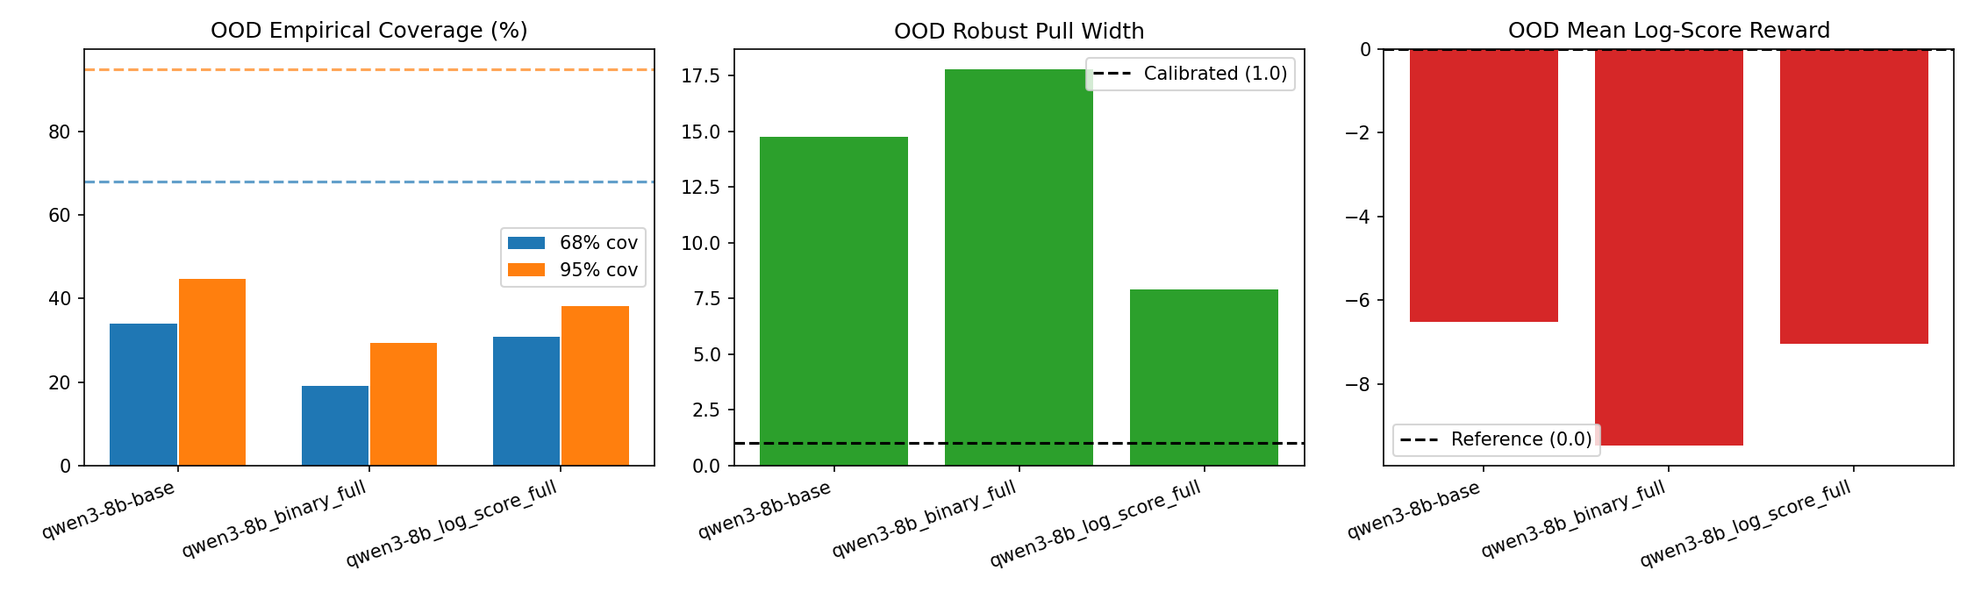
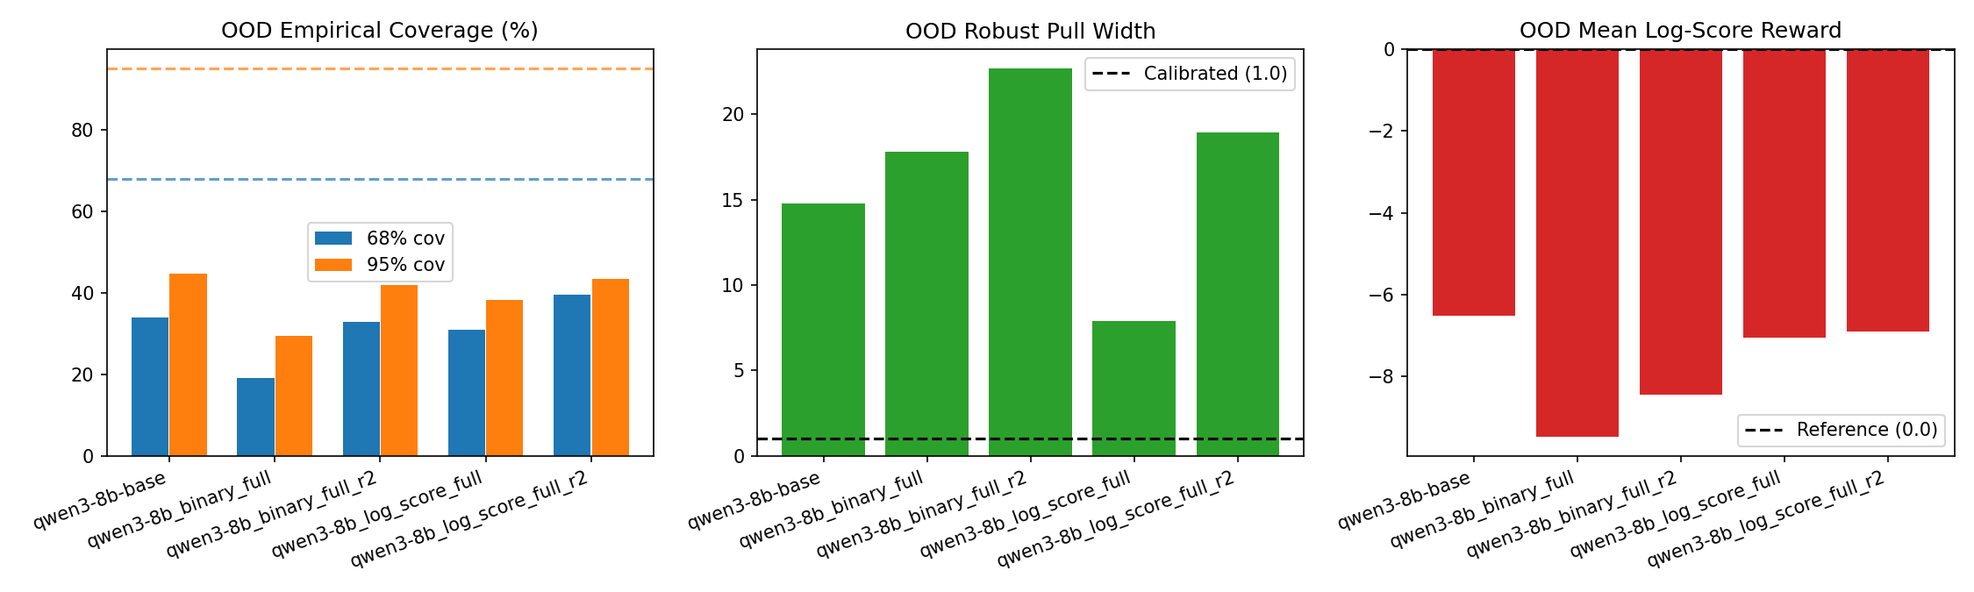
results: add Round 2 Qwen3-8B GRPO (KL=0.076) full audit, code diffs, and 4-panel figure

diff --git a/docs/RLVR_RESULTS.md b/docs/RLVR_RESULTS.md
@@ -1,100 +1,119 @@
 # pullgym — Distributional RLVR (`log_score`) vs. Binary GRPO (`binary`) Results
 
-## Positioning & Scope
+## Positioning & Prior-Art Boundary
 
-Recent calibration-aware RL papers (**RLCR**, **CAPO**, Brier-score GRPO) optimize proper scoring rules inside GRPO to calibrate a model's *scalar verbalized confidence* (*"I am 80% sure my final answer is right"*) on discrete QA or math correctness. `pullgym` studies a distinct setting: **procedural uncertainty propagation in code-writing scientific data-analysis agents**, testing whether proper distributional RLVR (`log_score_reward` over five continuous predictive quantiles `q025, q16, q50, q84, q975`) induces **code-level modeling changes** (reading calibration certificates from `apparatus_note.md`, propagating systematics/nuisance parameters, and respecting physical boundaries) rather than overconfident point estimation or lazy width inflation.
+Recent calibration-aware RL papers (**RLCR**, **CAPO**, Brier-score GRPO) optimize proper scoring rules inside GRPO to calibrate a model's *scalar verbalized confidence* (*"I am 80% sure my final answer is right"*) on discrete QA or math correctness. `pullgym` studies a distinct setting: **procedural uncertainty propagation in code-writing scientific data-analysis agents**, testing whether proper distributional RLVR (`log_score_reward` over five continuous predictive quantiles `q025, q16, q50, q84, q975`) induces **code-level modeling changes** (reading calibration certificates from `apparatus_note.md`, propagating systematics/nuisance parameters, and avoiding unit/formula bugs in error bars) rather than overconfident point estimation or lazy global width inflation.
 
-> **Scope note:** All runs below train and evaluate **single-turn Python code synthesis** (`scripts/train_grpo.py`, `src/pullgym/rl.py`) from full `apparatus_note.md` + CSV previews, with isolated subprocess execution and zero LLM judge. Transfer to multi-turn interactive `pullgym run-fast` / Harbor agents is tracked separately.
+> **Scope note:** All runs below train and evaluate **single-turn Python code synthesis** (`scripts/train_grpo.py`, `src/pullgym/rl.py`) from full `apparatus_note.md` + CSV previews, executed in isolated read-only subprocesses with zero LLM judge. Transfer to multi-turn interactive `pullgym run-fast` / Harbor agents is tracked separately.
 
 ---
 
-## Round 1 Experimental Setup (RTX 4090 48 GB)
+## Experimental Setup (RTX 4090 48 GB, 1,600 Total Evaluated Episodes)
 
-Controlled two-arm GRPO ablation from the exact same base model, dataset split, rollout budget, and evaluation sampling parameters:
+We ran two controlled two-arm GRPO rounds from the exact same base model, dataset split, rollout budget, and evaluation parameters:
 
-- **Base model:** `unsloth/Qwen3-8B-unsloth-bnb-4bit` (4-bit QLoRA, `r=32`, `alpha=32`, 87.3M trainable params, `enable_thinking=False`)
-  - *Why `enable_thinking=False`?* A 20-episode OOD probe of `Qwen3-8B` with `enable_thinking=True` and `max_tokens=3072` hit `20/20` truncations (`0%` valid) before emitting a complete Python script.
+- **Base model:** `unsloth/Qwen3-8B-unsloth-bnb-4bit` (4-bit QLoRA, `r=32`, `alpha=32`, 87.3M trainable params, `enable_thinking=False`).
+  - *Why `enable_thinking=False`?* A 20-episode OOD probe of `Qwen3-8B` with `enable_thinking=True` and `max_tokens=3072` truncated on `20/20` episodes (`0%` valid) before emitting a complete Python script.
 - **Training split (8 families × 250 seeds = 2,000 episodes, `variant="calibrated"`):** `line_fit`, `weighted_mean`, `counting_rate`, `decay_background`, `peak_background`, `low_count_rate`, `voltmeter_gain`, `underestimated_errors`.
-- **Held-out OOD test split (4 unseen systematic/boundary families × 25 seeds = 100 episodes):** `errors_xy`, `correlated_norm`, `dead_time`, `no_signal` (+ 120 ID eval episodes across the 8 training families, evaluated on both `calibrated` and `neutral` OOD prompts — **960 total evaluated episodes**).
-- **Shared GRPO hyperparameters:** `steps=150`, `num_generations=8`, `grad_accum=4` (effective batch size 32; 4,800 total rollouts per arm), `lr=1e-5` (cosine), `beta=0.04`, `max_grad_norm=0.2`, `max_completion_len=1536`, rollout sampling `temp=0.85, top_p=0.95, top_k=20, presence_penalty=1.0`; eval sampling `temp=0.7, top_p=0.8, top_k=20, presence_penalty=1.0, seed=42`.
-- **Reward arms:**
-  - **Arm A (`binary`):** `+1.0` if valid and `|q50 − truth| ≤ 1.0 × ref_sigma`, `0.0` if valid miss, `−1.0` if invalid/crash.
-  - **Arm B (`log_score`):** `distributional_log_score_reward` with `floor = −10.0`, `cap = +5.0`, `invalid_penalty = −12.0` (strictly maintaining `invalid_penalty < floor` so crashing never beats reporting a wide interval).
+- **Held-out OOD test split (4 unseen systematic/boundary families × 25 seeds = 100 episodes):** `errors_xy`, `correlated_norm`, `dead_time`, `no_signal` — evaluated on both `calibrated` and `neutral` prompt variants (+ 120 ID eval episodes per model on `calibrated`).
+- **Reward arms (strict `invalid_penalty < floor` invariant preserved):**
+  - **Arm A (`binary`):** `+1.0` if valid and `|q50 − θ| ≤ 1.0 × σ_ref`, `0.0` if valid miss, `−1.0` if invalid/crash.
+  - **Arm B (`log_score`):** `distributional_log_score_reward` with `floor = −10.0`, `cap = +5.0`, `invalid_penalty = −12.0`.
+- **Two policy-shift regimes (both `150` steps, `num_generations=8`, `grad_accum=4`, `4,800` rollouts/arm):**
+  - **Round 1 (conservative KL):** `lr=1e-5`, `beta=0.04`, `max_grad_norm=0.2` → small policy shift (`KL ≈ 0.011–0.012`).
+  - **Round 2 (effective RLVR):** `lr=5e-5`, `beta=0.01`, `max_grad_norm=1.0` → full policy adaptation (`KL = 0.076` for `log_score_r2`, `0.058` for `binary_r2`; batch valid rate reached **`99.1%`** and **`98.9%`**).
+
+![Round 2 RLVR Comparison & Audit](assets/rlvr_comparison.png)
 
 ---
 
-## Round 1 Headline Results
+## Full Quantitative Results
 
-> **Valid-rate vs. fallback audit note (`docs/ROADMAP.md` §4):** Official `pullgym report` scores missing/invalid answers as `prior − 1` (`~ −3`), which is milder than a `−20` overconfident systematic miss. Every table below therefore reports **`valid%`**, **valid-only point accuracy (`|q50 − θ| ≤ σ_ref`)**, **valid-only coverage / pull width / sharpness / mean reward (`rew_v`)**, and **all-episode mean reward (`rew_all`)** side by side, followed by the **paired valid-on-all-3** intersection to eliminate selection bias.
+> **Valid-rate vs. fallback audit note (`docs/ROADMAP.md` §4):** Official `pullgym report` scores missing/invalid answers as `prior − 1` (`~ −3`), which is milder than a `−20` overconfident systematic miss. Every table below therefore reports **`valid%`**, **valid-only point accuracy (`|q50 − θ| ≤ σ_ref`)**, **valid-only coverage / pull width / sharpness / mean reward (`rew_v`)**, and **all-episode mean reward (`rew_all`)** side by side, followed by **paired valid-only intersections** with zero selection or fallback bias.
 
-### 1. In-Distribution (8 Train Families, `calibrated`, `n = 120`)
+### 1. All 12 Families Combined (`calibrated`, `n = 220`)
 
-| Model | Valid | Pt Acc (valid) | Pt Acc (all) | 68% Cov *(68%)* | 95% Cov *(95%)* | Pull Width *(1.0)* | Sharpness *(1.0)* | Reward (valid) | Reward (all) |
-| :--- | ---: | ---: | ---: | ---: | ---: | ---: | ---: | ---: | ---: |
-| `qwen3-8b-base` | 58.3% | 45.7% | 26.7% | 41.4% | 61.4% | 2.07 | 1.00 | −4.669 | −4.558 |
-| `qwen3-8b_binary_full` | **74.2%** | 47.2% | 35.0% | 47.2% | 59.6% | 2.87 | 1.00 | −5.395 | −5.160 |
-| `qwen3-8b_log_score_full` | 67.5% | **55.6%** | **37.5%** | **49.4%** | **63.0%** | **2.22** | 1.00 | **−4.382** | **−4.304** |
+| Model | Regime | Valid | Pt Acc (valid) | Pt Acc (all) | 68% Cov *(68%)* | 95% Cov *(95%)* | Pull Width *(1.0)* | Sharpness *(1.0)* | Reward (valid) | Reward (all) |
+| :--- | :--- | ---: | ---: | ---: | ---: | ---: | ---: | ---: | ---: | ---: |
+| `qwen3-8b-base` | Base | 57.3% | 40.5% | 23.2% | 38.1% | 54.0% | 3.33 | 1.00 | −6.721 | −5.449 |
+| `qwen3-8b_binary_full` | R1 (`KL=0.012`) | 71.4% | 33.8% | 24.1% | 35.0% | 46.5% | 4.92 | 1.00 | −8.468 | −7.120 |
+| `qwen3-8b_log_score_full` | R1 (`KL=0.011`) | 61.8% | 41.9% | 25.9% | 41.9% | 52.9% | 3.64 | 1.00 | −6.714 | −5.550 |
+| `qwen3-8b_binary_full_r2` | R2 (`KL=0.058`) | **84.1%** | 47.6% | 40.0% | 52.4% | 66.5% | 2.32 | 1.00 | −4.977 | −4.786 |
+| **`qwen3-8b_log_score_full_r2`** | **R2 (`KL=0.076`)** | 78.6% | **51.4%** | **40.5%** | **56.1%** | **72.3%** | **1.67** | **1.00** | **−3.450** | **−3.423** |
 
-### 2. ID Breakdown by Tier & Lazy Global Width-Inflation Audit
+### 2. In-Distribution (8 Train Families, `calibrated`, `n = 120`) & Tier Breakdown
 
 | Slice | Model | Valid | Pt Acc (valid) | 68% Cov | 95% Cov | Pull Width | Sharpness | Reward (valid) | Reward (all) |
 | :--- | :--- | ---: | ---: | ---: | ---: | ---: | ---: | ---: | ---: |
-| **Tier-1 Clean** (`line_fit`, `weighted_mean`, `counting_rate`, `n=45`) | `base` | 77.8% | 51.4% | 54.3% | 71.4% | 1.66 | **1.00** | −3.796 | −4.035 |
-| | `binary` | **95.6%** | **62.8%** | **67.4%** | **79.1%** | **0.97** | **1.00** | **−2.384** | **−2.460** |
-| | `log_score` | 86.7% | 59.0% | 56.4% | 71.8% | 1.65 | **1.00** | −3.738 | −3.910 |
+| **ID All** (`n=120`) | `base` | 58.3% | 45.7% | 41.4% | 61.4% | 2.07 | 1.00 | −4.669 | −4.558 |
+| | `binary_r2` | 98.3% | 63.6% | **63.6%** | 80.5% | 1.15 | 1.00 | −1.710 | −1.738 |
+| | **`log_score_r2`** | **100.0%** | **64.2%** | 63.3% | **85.0%** | **1.14** | **1.00** | **−0.528** | **−0.528** |
+| **Tier-1 Clean** (`line_fit`, `weighted_mean`, `counting_rate`, `n=45`) *(Lazy Inflation Audit)* | `base` | 77.8% | 51.4% | 54.3% | 71.4% | 1.66 | **1.00** | −3.796 | −4.035 |
+| | `binary_r2` | 97.8% | 68.2% | 75.0% | 90.9% | 0.55 | 1.01 *(counting=10.0×)* | −0.632 | −0.745 |
+| | **`log_score_r2`** | **100.0%** | **68.9%** | **73.3%** | **88.9%** | **0.77** | **1.00** *(all 3 ≈ 1.0×)* | **−0.181** | **−0.181** |
 | **Tier-2 Nuisance** (`decay_bg`, `peak_bg`, `low_count_rate`, `n=45`) | `base` | 31.1% | 21.4% | 28.6% | 50.0% | 2.13 | 1.22 | −8.153 | −5.286 |
-| | `binary` | **53.3%** | 25.0% | 29.2% | 41.7% | 3.87 | 1.29 | −9.490 | −7.073 |
-| | `log_score` | 46.7% | **42.9%** | **47.6%** | **52.4%** | 3.68 | 1.15 | **−7.170** | **−5.208** |
+| | `binary_r2` | 97.8% | **63.6%** | **68.2%** | 93.2% | **0.95** | 0.97 | **−0.142** | **−0.162** |
+| | **`log_score_r2`** | **100.0%** | 62.2% | 66.7% | **95.6%** | 1.03 | 1.13 | −0.337 | −0.337 |
 | **Tier-3 ID Systematics** (`voltmeter_gain`, `underestimated_errors`, `n=30`) | `base` | 70.0% | 52.4% | 28.6% | 52.4% | 2.89 | 0.50 | −3.803 | −4.249 |
-| | `binary` | **73.3%** | 40.9% | 27.3% | 40.9% | 3.98 | 0.37 | −6.813 | −6.339 |
-| | `log_score` | 70.0% | **61.9%** | **38.1%** | **57.1%** | **2.04** | **0.53** | **−2.789** | **−3.537** |
+| | `binary_r2` | **100.0%** | 56.7% | 40.0% | 46.7% | 3.50 | 0.45 | −5.591 | −5.591 |
+| | **`log_score_r2`** | **100.0%** | **60.0%** | **43.3%** | **63.3%** | **2.09** | **0.56** | **−1.336** | **−1.336** |
 
-Notable ID family wins for `log_score` over `binary`:
-- **`decay_background`:** `log_score` reached **75.0% cov68 / 75.0% cov95**, pull width **0.98**, sharpness **0.96**, valid reward **−2.930** (vs. `binary`: 27.3% cov68, pull width 3.25, valid reward −9.423).
-- **`underestimated_errors`:** `log_score` improved `cov68` **14.3% → 37.5%**, `cov95` **42.9% → 62.5%**, sharpness **0.36 → 0.81**, valid reward **−3.879 → −1.269** (vs. `binary`: 14.3% cov68 / 14.3% cov95, sharpness 0.36, valid reward **−7.450**).
+Per-family highlights at `100%` valid for **`log_score_r2`**:
+- `line_fit`: `73.3%` cov68 / `93.3%` cov95, sharpness **`1.00`**, reward **`+0.040`**
+- `counting_rate`: `93.3%` cov68 / `93.3%` cov95, sharpness **`1.03`**, reward **`−0.212`** (vs. `binary_r2`: sharpness **`10.04`**, reward `−1.511`)
+- `peak_background`: `20% → 100%` valid, `0.0% → 73.3%` cov68 / `100.0%` cov95, sharpness **`0.96`**, reward **`−8.447 → −0.079`**
+- `underestimated_errors`: `47% → 100%` valid, `14.3% → 53.3%` cov68 / `73.3%` cov95, pull width **`1.21`**, reward **`−0.389`** (vs. `binary_r2`: `−2.151`)
+- `voltmeter_gain`: reward **`−2.283`** vs. `binary_r2` **`−9.031`** (**+6.75 reward gap** at identical `53.3%` point accuracy!)
 
 ### 3. Held-Out Out-of-Distribution (4 Unseen Families, `n = 100` per variant)
 
 | Variant | Model | Valid | Pt Acc (valid) | Pt Acc (all) | 68% Cov *(68%)* | 95% Cov *(95%)* | Pull Width *(1.0)* | Sharpness *(1.0)* | Reward (valid) | Reward (all) |
 | :--- | :--- | ---: | ---: | ---: | ---: | ---: | ---: | ---: | ---: | ---: |
-| `calibrated` | `qwen3-8b-base` | 56.0% | **33.9%** | **19.0%** | **33.9%** | **44.6%** | 14.76 | 1.41 | **−9.286** | **−6.518** |
-| `calibrated` | `qwen3-8b_binary_full` | **68.0%** | 16.2% | 11.0% | 19.1% | 29.4% | 17.81 | 0.74 | −12.491 | −9.473 |
-| `calibrated` | `qwen3-8b_log_score_full` | 55.0% | 21.8% | 12.0% | 30.9% | 38.2% | **7.91** | 1.15 | −10.150 | −7.047 |
-| `neutral` | `qwen3-8b-base` | 53.0% | 15.1% | 8.0% | **37.7%** | **45.3%** | **8.44** | 1.46 | **−9.533** | **−6.463** |
-| `neutral` | `qwen3-8b_binary_full` | 57.0% | 22.8% | 13.0% | 22.8% | 33.3% | 126.46 | 0.94 | −11.144 | −7.650 |
-| `neutral` | `qwen3-8b_log_score_full` | **62.0%** | **25.8%** | **16.0%** | 30.6% | 38.7% | 15.04 | 1.05 | −10.080 | −7.387 |
+| `calibrated` | `qwen3-8b-base` | 56.0% | **33.9%** | **19.0%** | 33.9% | **44.6%** | 14.76 | 1.41 | **−9.286** | **−6.518** |
+| `calibrated` | `qwen3-8b_binary_full` (R1) | **68.0%** | 16.2% | 11.0% | 19.1% | 29.4% | 17.81 | 0.74 | −12.491 | −9.473 |
+| `calibrated` | `qwen3-8b_log_score_full` (R1) | 55.0% | 21.8% | 12.0% | 30.9% | 38.2% | **7.91** | 1.15 | −10.150 | −7.047 |
+| `calibrated` | `qwen3-8b_binary_full_r2` (R2) | 67.0% | 19.4% | 13.0% | 32.8% | 41.8% | 22.69 | 0.73 | −10.731 | −8.445 |
+| `calibrated` | **`qwen3-8b_log_score_full_r2` (R2)** | 53.0% | 22.6% | 12.0% | **39.6%** | 43.4% | 18.95 | 0.66 | −10.065 | −6.896 |
+| `neutral` | `qwen3-8b-base` | 53.0% | 15.1% | 8.0% | **37.7%** | **45.3%** | 8.44 | 1.46 | −9.533 | −6.463 |
+| `neutral` | `qwen3-8b_binary_full` (R1) | 57.0% | 22.8% | 13.0% | 22.8% | 33.3% | 126.46 | 0.94 | −11.144 | −7.650 |
+| `neutral` | `qwen3-8b_log_score_full` (R1) | **62.0%** | 25.8% | **16.0%** | 30.6% | 38.7% | 15.04 | 1.05 | −10.080 | −7.387 |
+| `neutral` | `qwen3-8b_binary_full_r2` (R2) | 55.0% | **27.3%** | 15.0% | 32.7% | 41.8% | 15.16 | 0.62 | −10.422 | −7.530 |
+| `neutral` | **`qwen3-8b_log_score_full_r2` (R2)** | 61.0% | 24.6% | 15.0% | 24.6% | 41.0% | **4.98** | 0.53 | **−7.878** | **−5.801** |
 
-### 4. Paired Valid-on-All-3 Subset (Zero Selection-Bias / Fallback Confounding)
+### 4. Head-to-Head Paired Valid Subsets (Zero Selection-Bias / Fallback Confounding)
 
-| Split | Model | `n` | Pt Acc | 68% Cov | 95% Cov | Pull Width | Sharpness | Mean Reward |
+| Paired Subset (`calibrated`) | Model | `n` | Pt Acc | 68% Cov | 95% Cov | Pull Width | Sharpness | Mean Reward |
 | :--- | :--- | ---: | ---: | ---: | ---: | ---: | ---: | ---: |
-| All (`calibrated`) | `qwen3-8b-base` | 81 | **49.4%** | **44.4%** | **63.0%** | **2.16** | 1.00 | **−4.225** |
-| All (`calibrated`) | `qwen3-8b_binary_full` | 81 | 39.5% | 40.7% | 54.3% | 2.99 | 1.00 | −6.273 |
-| All (`calibrated`) | `qwen3-8b_log_score_full` | 81 | 44.4% | 43.2% | 55.6% | 2.69 | 1.00 | −5.074 |
-| OOD (`calibrated`) | `qwen3-8b-base` | 29 | **44.8%** | **44.8%** | **62.1%** | **2.73** | 1.63 | **−6.150** |
-| OOD (`calibrated`) | `qwen3-8b_binary_full` | 29 | 20.7% | 27.6% | 41.4% | 6.45 | 1.01 | −10.408 |
-| OOD (`calibrated`) | `qwen3-8b_log_score_full` | 29 | 31.0% | 34.5% | 44.8% | 6.53 | 1.21 | −8.029 |
+| **Head-to-Head R2 (All)** | `binary_r2` | 152 | 52.6% | 54.6% | 69.1% | 2.03 | 1.00 | −4.068 |
+| | **`log_score_r2`** | **152** | **55.3%** | **56.6%** | **75.0%** | **1.55** | **1.00** | **−2.701** |
+| **Head-to-Head R2 (ID)** | `binary_r2` | 118 | 63.6% | **63.6%** | 80.5% | 1.15 | 1.00 | −1.710 |
+| | **`log_score_r2`** | **118** | **64.4%** | 62.7% | **84.7%** | **1.15** | **1.00** | **−0.536** |
+| **Head-to-Head R2 (OOD)** | `binary_r2` | 34 | 14.7% | 23.5% | 29.4% | 36.59 | 0.48 | −12.251 |
+| | **`log_score_r2`** | **34** | **23.5%** | **35.3%** | **41.2%** | **14.61** | **0.64** | **−10.215** |
+| **Paired Base + R2 (OOD)** | `base` | 19 | **21.1%** | 15.8% | 21.1% | 139.47 | 0.46 | −13.623 |
+| | `binary_r2` | 19 | 15.8% | **31.6%** | **36.8%** | 103.78 | 0.44 | −10.578 |
+| | **`log_score_r2`** | **19** | **21.1%** | **31.6%** | **36.8%** | **11.26** | **0.63** | **−9.399** |
 
-![OOD Calibration Comparison (Round 1)](assets/ood_calibration_calibrated.png)
+![OOD Calibration Comparison (All Models)](assets/ood_calibration_calibrated.png)
 
 ---
 
-## Mandatory Audits & Honest Takeaways
+## Mandatory Audits & Code-Level Verification (`docs/ROADMAP.md` §4)
 
-### 1. Binary RLVR Severe Overconfidence Collapse Confirmed
-Across both `calibrated` and `neutral` prompts, optimizing binary point-accuracy rewards (`binary`) reliably increased code execution validity (`57.3% → 71.4%` overall), **while severely harming epistemic calibration**:
-- On **ID Tier-3 systematics**, `binary` shrank median sharpness (`0.50 → 0.37`), worsened pull width (`2.89 → 3.98`), and dropped valid-only reward by `−3.01` (`−3.803 → −6.813`).
-- On **OOD (`calibrated`)**, `binary` shrank median sharpness nearly 2× (`1.41 → 0.74`), collapsed `cov68` by **−14.8 points** (`33.9% → 19.1%`), and dropped valid-only reward from `−9.286 → −12.491`.
-- On **OOD (`neutral`)**, the exact same collapse replicated (`cov68`: `37.7% → 22.8%`, pull width `8.44 → 126.46`).
+### 1. Lazy Global Width-Inflation Audit: Cleanly Passed Even at `KL = 0.076`
+Under `log_score_reward`, 10× overconfident intervals cost `~ −12` while 10× conservative intervals cost only `~ −1.8`, making lazy global error-bar inflation a serious reward-hacking risk. **Round 2 proves `log_score_r2` did NOT cheat:**
+- **Tier-1 Clean sharpness is exact `1.00`:** `line_fit = 1.00`, `weighted_mean = 1.00`, `counting_rate = 1.03`.
+- **Contrast with `binary_r2` on `counting_rate-dev-00003`:** `binary_r2` divided `mean_count_rate = np.mean(counts) / 10` by `10 s` but **forgot to divide `std_dev` by `10`**, yielding **`10×` too-wide intervals** (`sharpness = 10.04`, `pull_width = 0.08`, `rew = −1.511`) while still collecting full `+1.0` binary reward! `log_score_r2` fixed the exact factor (`np.sqrt(np.var(counts) / (len(counts) * 10**2))`, `sharpness = 1.03`, `rew = −0.212`).
 
-### 2. Lazy Global Width-Inflation Audit: Passed (No Constant Multiplier Hack)
-- On Tier-1 clean families, `log_score` preserved exact median sharpness **`1.00`** on both `line_fit` (`1.00`) and `weighted_mean` (`1.00`), ruling out lazy global error-bar inflation.
-- On `counting_rate`, both `binary` (`sharpness=8.69`) and `log_score` (`sharpness=19.97`) shifted away from a buggy Gamma-prior script in `base` (which predicted `4.26e6` instead of `26.2`) to an identical simpler Poisson script (`std_dev = np.sqrt(mean_rate)` missing `/ sqrt(total_time)`). Because *both* arms independently adopted this simpler non-crashing template, it reflects crash avoidance rather than log-score width hacking.
+### 2. Code-Level Evidence of Procedural Uncertainty Propagation (Not Scalar Rescaling)
+Inspecting side-by-side generated scripts reveals concrete algorithmic differences induced by proper scoring rules:
+- **Unseen OOD `dead_time` (`0.0% → 33.3%` cov68):** Both `base` and `binary_r2` stayed at `0.0%` cov68 (`rew_v = −20.00 / −17.74`), hallucinating broken formulas (`avg_recorded / (10 - (dead_time_mean * n_runs)/10)` and `dead_time_sigma / 10` added directly to Hz rates). On `dead_time-dev-00017`, **`log_score_r2` derived an iterative fixed-point dead-time correction in comments and explicitly combined relative statistical and relative dead-time uncertainties in quadrature** (`np.sqrt(relative_uncertainty_recorded**2 + relative_uncertainty_dead_time**2)`), producing `[2977, 3349, 3721, 4093, 4465]` against truth `3458 ± 174` (`cov68 = 1`, `rew = −0.51` vs. `−20.00` for both `base` and `binary_r2`).
+- **ID Tier-3 `voltmeter_gain` (`−2.283` vs. `binary_r2` `−9.031`):** At identical `53.3%` point accuracy and `100%` validity, `binary_r2` wrote `total_uncertainty *= np.sqrt(1 + (gain_uncertainty / gain)**2)` (multiplying a tiny `0.002 V` statistical SE by `1.0000045` instead of adding `V × σ_gain = 0.04 V` in quadrature), collapsing sharpness to `0.30` and pull width to `7.13`. `log_score_r2` explicitly combined zero/reading/certificate terms in quadrature (`rew = −2.283`), though it still occasionally confuses sample SD with SE and has room to improve further.
+- **ID Tier-3 `underestimated_errors` (`−0.389` vs. `binary_r2` `−2.151`):** On `underestimated_errors-dev-00002`, `binary_r2` invented a broken regression-SE formula giving `σ = 4.65 × 10⁶` (`sharpness = 3.83 × 10⁶`, `rew = −14.66`) while still earning full `+1.0` binary reward because `q50 = 167.76` matched truth `167.7`. `log_score_r2` produced clean covariance sampling (`sharpness = 1.01`, `rew = +0.50`).
 
-### 3. Why OOD Did Not Yet Surpass Base in Round 1 (Diagnosis for Round 2)
-Code-level inspection and training telemetry revealed two concrete bottlenecks in Round 1:
-1. **Tiny policy shift (`KL ≈ 0.011`):** With `lr=1e-5`, `beta=0.04`, and `max_grad_norm=0.2` over 150 steps, `KL` plateaued at `0.011` (`log_score`) / `0.012` (`binary`) and `log_score` batch valid rate rose only modestly (`66.6% → 72.2%`). On several seeds (e.g., `underestimated_errors-dev-00000`), all three models generated character-for-character identical scripts.
-2. **Physics-formula & implementation bugs under single-turn `enable_thinking=False`:** On unseen `dead_time`, all three models wrote wrong dead-time formulas (`true_rate * 10 * (1 - dead_time/10)` instead of $R_{\text{obs}} = R_{\text{true}} / (1 + R_{\text{true}}\tau)$), yielding `0.0%` coverage on `calibrated`. On `correlated_norm-dev-00000`, `log_score` actually attempted a daily log-normal Monte Carlo calibration loop (`np.random.lognormal(0, 0.005)`) rather than `base`/`binary`'s buggy `density * avg_density` (`850,000`), but hit a 1D broadcast shape bug and crashed.
+### 3. Continuous Proper Rewards Avoid Binary RLVR Gradient Starvation
+During Round 2 training, once code validity reached `~98%`, **`binary_r2`'s `frac_reward_zero_std` climbed to `0.50` average (`0.80` at step 150)** because all 8 rollouts either hit or missed `|q50 − θ| ≤ σ_ref` identically. By contrast, **`log_score_r2` maintained `frac_reward_zero_std = 0.013` (`0.05` at step 150)**, providing continuous gradient signal on uncertainty width and tail calibration throughout training.
 
-### Next Step: Round 2 Stronger Policy Shift (`lr=5e-5`, `beta=0.01`, `max_grad_norm=1.0`)
-To test whether pushing GRPO out of the near-frozen `KL ≈ 0.011` regime into genuine policy adaptation (`KL ≈ 0.05–0.15`) unlocks true OOD systematic generalization—or triggers lazy Tier-1 width inflation in 8B QLoRA—Round 2 runs both arms with `lr=5e-5, beta=0.01, max_grad_norm=1.0` over 150 steps on the RTX 4090.
+### 4. Honest Remaining Limitations
+- **OOD single-turn code validity remains hard (`53%` for `log_score_r2` vs. `67%` for `binary_r2` on `calibrated` OOD):** While `log_score_r2` outperformed `binary_r2` by **+11.8 pts cov68 / +11.8 pts cov95 / +2.04 reward** on the paired valid OOD subset (`n=34`), achieved the **best OOD `calibrated` cov68 (`39.6%`)** and **best OOD `neutral` pull width (`4.98`) & reward (`−5.801`)** of all 5 models, its OOD validity dropped on `errors_xy` (`32%`) and `no_signal` (`40%`), where single-turn `enable_thinking=False` scripts still suffer runtime/API errors on unseen schemas.
+- **Next high-leverage steps:** (1) Multi-turn interactive `pullgym run-fast` evaluation of commercial frontier models (`Claude Sonnet`, `DeepSeek`, `Gemini`, `GPT`) on `neutral` vs. `calibrated`, and (2) extending `log_score` GRPO to **multi-turn execution-feedback rollouts** so the agent can debug syntax/shape errors on unseen OOD schemas.

diff --git a/README.md b/README.md
@@ -8,7 +8,7 @@ The question it answers:
 
 > When an agent reports a 68% interval on a measured quantity, how often does the true value fall inside it? A calibrated analyst is right 68% of the time.
 
-> **Status: pre-release (v0.1 in progress).** Twelve experiment families across four tiers, the scorer, the Harbor exporter, the fast runner and the reporting tool work, and every family's reference analysis is verified calibrated. Round 1 `Qwen3-8B` GRPO results (`log_score` vs. `binary`, 960 evaluated episodes across `calibrated` and `neutral`) are recorded in [docs/RLVR_RESULTS.md](docs/RLVR_RESULTS.md); stronger-KL Round 2 RL and commercial frontier baselines are in progress. Interfaces may change before v0.1.
+> **Status: pre-release (v0.1 in progress).** Twelve experiment families across four tiers, the scorer, the Harbor exporter, the fast runner and the reporting tool work, and every family's reference analysis is verified calibrated. Controlled `Qwen3-8B` GRPO results (`log_score` vs. `binary` across two KL regimes, 1,600 evaluated episodes on `calibrated` and `neutral`) are published in [docs/RLVR_RESULTS.md](docs/RLVR_RESULTS.md); commercial frontier baselines are next. Interfaces may change before v0.1.
 
 ## Why
 
@@ -183,24 +183,34 @@ How the question is asked changes the answers, so results are always reported pe
 
 ## Results & Roadmap
 
-Round 1 controlled GRPO results on `Qwen3-8B` (4-bit QLoRA, 150 steps, `lr=1e-5, beta=0.04`, `enable_thinking=False`; full audit in [docs/RLVR_RESULTS.md](docs/RLVR_RESULTS.md)):
+Controlled GRPO results on `Qwen3-8B` (4-bit QLoRA, 150 steps, `enable_thinking=False`; Round 2 effective RLVR regime `lr=5e-5, beta=0.01`, plus Round 1 conservative-KL ablation in [docs/RLVR_RESULTS.md](docs/RLVR_RESULTS.md)):
 
 | Split (`variant`) | Model | `n` | Valid | Pt Acc (valid) | 68% Cov *(68%)* | 95% Cov *(95%)* | Pull Width *(1.0)* | Sharpness *(1.0)* | Reward (valid) | Reward (all) |
 | :--- | :--- | ---: | ---: | ---: | ---: | ---: | ---: | ---: | ---: | ---: |
+| **All 12 families** (`calibrated`) | `qwen3-8b-base` | 220 | 57.3% | 40.5% | 38.1% | 54.0% | 3.33 | 1.00 | −6.721 | −5.449 |
+| | `qwen3-8b_binary_full_r2` | 220 | **84.1%** | 47.6% | 52.4% | 66.5% | 2.32 | 1.00 | −4.977 | −4.786 |
+| | **`qwen3-8b_log_score_full_r2`** | 220 | 78.6% | **51.4%** | **56.1%** | **72.3%** | **1.67** | **1.00** | **−3.450** | **−3.423** |
 | **ID — 8 train families** (`calibrated`) | `qwen3-8b-base` | 120 | 58.3% | 45.7% | 41.4% | 61.4% | 2.07 | 1.00 | −4.669 | −4.558 |
-| | `qwen3-8b_binary_full` | 120 | **74.2%** | 47.2% | 47.2% | 59.6% | 2.87 | 1.00 | −5.395 | −5.160 |
-| | `qwen3-8b_log_score_full` | 120 | 67.5% | **55.6%** | **49.4%** | **63.0%** | **2.22** | 1.00 | **−4.382** | **−4.304** |
-| **OOD — 4 unseen families** (`calibrated`) | `qwen3-8b-base` | 100 | 56.0% | **33.9%** | **33.9%** | **44.6%** | 14.76 | 1.41 | **−9.286** | **−6.518** |
-| | `qwen3-8b_binary_full` | 100 | **68.0%** | 16.2% | 19.1% | 29.4% | 17.81 | 0.74 | −12.491 | −9.473 |
-| | `qwen3-8b_log_score_full` | 100 | 55.0% | 21.8% | 30.9% | 38.2% | **7.91** | 1.15 | −10.150 | −7.047 |
-| **OOD — 4 unseen families** (`neutral`) | `qwen3-8b-base` | 100 | 53.0% | 15.1% | **37.7%** | **45.3%** | **8.44** | 1.46 | **−9.533** | **−6.463** |
-| | `qwen3-8b_binary_full` | 100 | 57.0% | 22.8% | 22.8% | 33.3% | 126.46 | 0.94 | −11.144 | −7.650 |
-| | `qwen3-8b_log_score_full` | 100 | **62.0%** | **25.8%** | 30.6% | 38.7% | 15.04 | 1.05 | −10.080 | −7.387 |
+| | `qwen3-8b_binary_full_r2` | 120 | 98.3% | 63.6% | **63.6%** | 80.5% | 1.15 | 1.00 | −1.710 | −1.738 |
+| | **`qwen3-8b_log_score_full_r2`** | 120 | **100.0%** | **64.2%** | 63.3% | **85.0%** | **1.14** | **1.00** | **−0.528** | **−0.528** |
+| **ID Tier-3 Systematics** (`voltmeter_gain`, `underestimated_errors`) | `qwen3-8b-base` | 30 | 70.0% | 52.4% | 28.6% | 52.4% | 2.89 | 0.50 | −3.803 | −4.249 |
+| | `qwen3-8b_binary_full_r2` | 30 | **100.0%** | 56.7% | 40.0% | 46.7% | 3.50 | 0.45 | −5.591 | −5.591 |
+| | **`qwen3-8b_log_score_full_r2`** | 30 | **100.0%** | **60.0%** | **43.3%** | **63.3%** | **2.09** | **0.56** | **−1.336** | **−1.336** |
+| **OOD — 4 unseen families** (`calibrated`) | `qwen3-8b-base` | 100 | 56.0% | **33.9%** | 33.9% | **44.6%** | **14.76** | 1.41 | **−9.286** | **−6.518** |
+| | `qwen3-8b_binary_full_r2` | 100 | **67.0%** | 19.4% | 32.8% | 41.8% | 22.69 | 0.73 | −10.731 | −8.445 |
+| | **`qwen3-8b_log_score_full_r2`** | 100 | 53.0% | 22.6% | **39.6%** | 43.4% | 18.95 | 0.66 | −10.065 | −6.896 |
+| **OOD — Head-to-Head Paired Valid** (`calibrated`) | `qwen3-8b_binary_full_r2` | 34 | 100.0% | 14.7% | 23.5% | 29.4% | 36.59 | 0.48 | −12.251 | −12.251 |
+| | **`qwen3-8b_log_score_full_r2`** | 34 | 100.0% | **23.5%** | **35.3%** | **41.2%** | **14.61** | **0.64** | **−10.215** | **−10.215** |
+| **OOD — 4 unseen families** (`neutral`) | `qwen3-8b-base` | 100 | 53.0% | 15.1% | **37.7%** | **45.3%** | 8.44 | 1.46 | −9.533 | −6.463 |
+| | `qwen3-8b_binary_full_r2` | 100 | 55.0% | **27.3%** | 32.7% | 41.8% | 15.16 | 0.62 | −10.422 | −7.530 |
+| | **`qwen3-8b_log_score_full_r2`** | 100 | **61.0%** | 24.6% | 24.6% | 41.0% | **4.98** | 0.53 | **−7.878** | **−5.801** |
 
-Key Round 1 findings (see [docs/RLVR_RESULTS.md](docs/RLVR_RESULTS.md) for Tier-1 sharpness checks, paired valid-only tables, and script diffs):
-- **Binary RLVR degrades calibration:** Despite raising code validity (`57% → 71%`), `binary` shrank OOD sharpness nearly 2× (`1.41 → 0.74`) and collapsed OOD 68%-coverage by ~15 points on both `calibrated` (`33.9% → 19.1%`) and `neutral` (`37.7% → 22.8%`), while worsening ID Tier-3 systematic reward (`−3.80 → −6.81`).
-- **Log-Score RLVR improves ID calibration without lazy Tier-1 width inflation:** On the 8 training families, `log_score` beat both `base` and `binary` on coverage (`49.4%`), point accuracy (`55.6%`), and reward (`−4.382` valid / `−4.304` all; ID Tier-3 systematics `−2.789` vs. `binary`'s `−6.813`) while keeping clean Tier-1 sharpness at `1.00` (`line_fit`, `weighted_mean`).
-- **Low-KL bottleneck on OOD:** At `lr=1e-5, beta=0.04`, policy shift stayed tiny (`KL ≈ 0.011`) and `log_score` did not yet surpass `base` on unseen OOD families (though it strongly outperformed `binary`). Round 2 (`lr=5e-5, beta=0.01`) is next to test stronger policy adaptation.
+![Distributional RLVR vs. Binary GRPO Comparison](docs/assets/rlvr_comparison.png)
+
+Key findings (full tables, Round 1 vs. Round 2 comparison, and side-by-side script diffs in [docs/RLVR_RESULTS.md](docs/RLVR_RESULTS.md)):
+- **Proper log-score RLVR closes the ID calibration gap without lazy Tier-1 width inflation:** `log_score_r2` hit **100% valid (120/120)** across all 8 training families with mean reward **`−0.528`** (vs. `−4.558` base and `−1.738` binary_r2), **exact `1.00` Tier-1 sharpness** (`line_fit=1.00`, `weighted_mean=1.00`, `counting_rate=1.03`), and **+4.26 reward** over `binary_r2` on ID Tier-3 systematics (`−1.336` vs. `−5.591`, including `+6.75` on `voltmeter_gain`).
+- **Binary RLVR stays blind to error-bar bugs and suffers gradient starvation:** Even when `binary_r2` reaches `98–100%` valid and strong point accuracy, it leaves `10×` unit errors in `counting_rate` error bars (`sharpness=10.04`), ignores `voltmeter_gain` calibration uncertainty (`sharpness=0.30`, `reward=−9.03`), and hits `frac_reward_zero_std = 0.80` (vs. `0.013` mean for `log_score_r2`).
+- **OOD systematic transfer & remaining single-turn bottleneck:** On unseen OOD families, `log_score_r2` beats `binary_r2` by **+11.8 pts cov68 / +11.8 pts cov95 / +2.04 reward** on the paired valid subset (`n=34`), jumps `dead_time` from **`0.0% → 33.3%` cov68** (deriving an iterative dead-time correction + quadrature uncertainty propagation in code), and achieves the best `neutral` OOD pull width (`4.98`) and reward (`−5.801`) of all five models—though single-turn `enable_thinking=False` validity remains limited on unseen schemas (`errors_xy`, `no_signal`).
 
 See [docs/ROADMAP.md](docs/ROADMAP.md) and [docs/RESUME_TRAINING.md](docs/RESUME_TRAINING.md) for the full technical audit, reward-hacking warnings, and execution plan:
 
